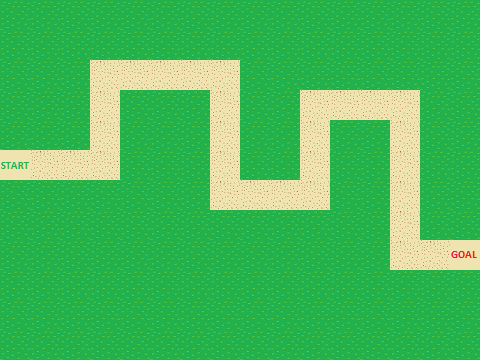
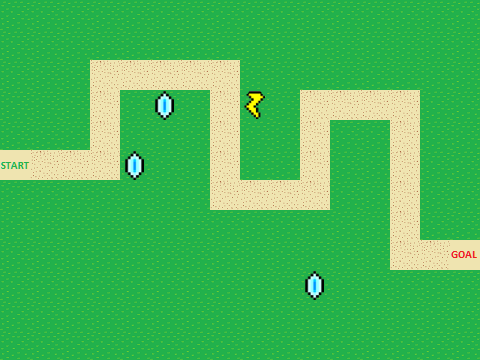
Graphics Optimization
Game runs relatively smoothly now, except tower sprites should be
Drawable based, not tile based.

diff --git a/TowerDefense/src/GUI/BackgroundPanel.java b/TowerDefense/src/GUI/BackgroundPanel.java
@@ -54,6 +54,7 @@ public class BackgroundPanel extends JPanel implements KeyListener {
 	private GameControllerInterface game;
 	private BufferedImage background;
 	Map map = new Map();
+	private boolean bufferSaved = false;
 	
 	// Constructor
 	public BackgroundPanel(GameControllerInterface gc) {
@@ -116,9 +117,8 @@ public class BackgroundPanel extends JPanel implements KeyListener {
 		rerenderBackground();
 	}
 
-	public void work(){
-		timer++;
-		if(timer>60){
+	public void saveBufferedImage(){
+		if(!bufferSaved){
 			background = new BufferedImage(PANEL_WIDTH, PANEL_HEIGHT, BufferedImage.TYPE_INT_ARGB);
 			// Render the component and all its sub components
 			paintAll(background.getGraphics());
@@ -132,13 +132,20 @@ public class BackgroundPanel extends JPanel implements KeyListener {
 			}
 			timer = 0;
 			System.out.println("saved");
+			bufferSaved = true;
 		}
 	}
+	
 	@Override
 	public void paint(Graphics g){
+		Graphics2D g2 = (Graphics2D)g;
+		if(!bufferSaved){
 		paintChildren(g);
 		paintComponents(g);
-		g.drawImage(background, PANEL_WIDTH, PANEL_HEIGHT, null);
+		}
+		else{
+			g2.drawImage(background, 0, 0, null);
+		}
 	}
 	
 	public void rerenderBackground(){
@@ -152,7 +159,6 @@ public class BackgroundPanel extends JPanel implements KeyListener {
 			}
 		}
 		repaint();
-	    
 	}
 	
 	private class PaintSquare extends JComponent {
@@ -312,6 +318,7 @@ public class BackgroundPanel extends JPanel implements KeyListener {
 			map.tileMap[tileY][tileX] = Tile.LIGHTNING_TOWER;
 			break;
 		}
+		bufferSaved = false;
 		gameMap[tileY][tileX].repaint();
 	}
 

diff --git a/TowerDefense/src/network/MultiPlayerGameController.java b/TowerDefense/src/network/MultiPlayerGameController.java
@@ -35,7 +35,7 @@ import GUI.Map;
 public class MultiPlayerGameController implements GameControllerInterface {
 
 	// main game class
-	static final int UPDATE_RATE = 60; // number of game update per second
+	static final int UPDATE_RATE = 30; // number of game update per second
 	static final long UPDATE_PERIOD = 1000000000L / UPDATE_RATE; // nanoseconds
 
 	// State of the game
@@ -270,6 +270,7 @@ public class MultiPlayerGameController implements GameControllerInterface {
 			}
 			updateLogisticSender();
 			draw(game.getDrawable());
+			gameCanvas.optimizeBakcground();
 			processOrders();
 			processSpawnQueue();
 		} else {

diff --git a/TowerDefense/src/GUI/GameCanvas.java b/TowerDefense/src/GUI/GameCanvas.java
@@ -46,7 +46,10 @@ public class GameCanvas extends JLayeredPane{
 
 	public void drawDrawables(ArrayList<Drawable> arr){
 		actorPane.drawDrawables(arr);
-		backgroundPanel.work();
+	}
+	
+	public void optimizeBakcground(){
+		backgroundPanel.saveBufferedImage();
 	}
 
 	public BackgroundPanel getBackgroundPanel(){
